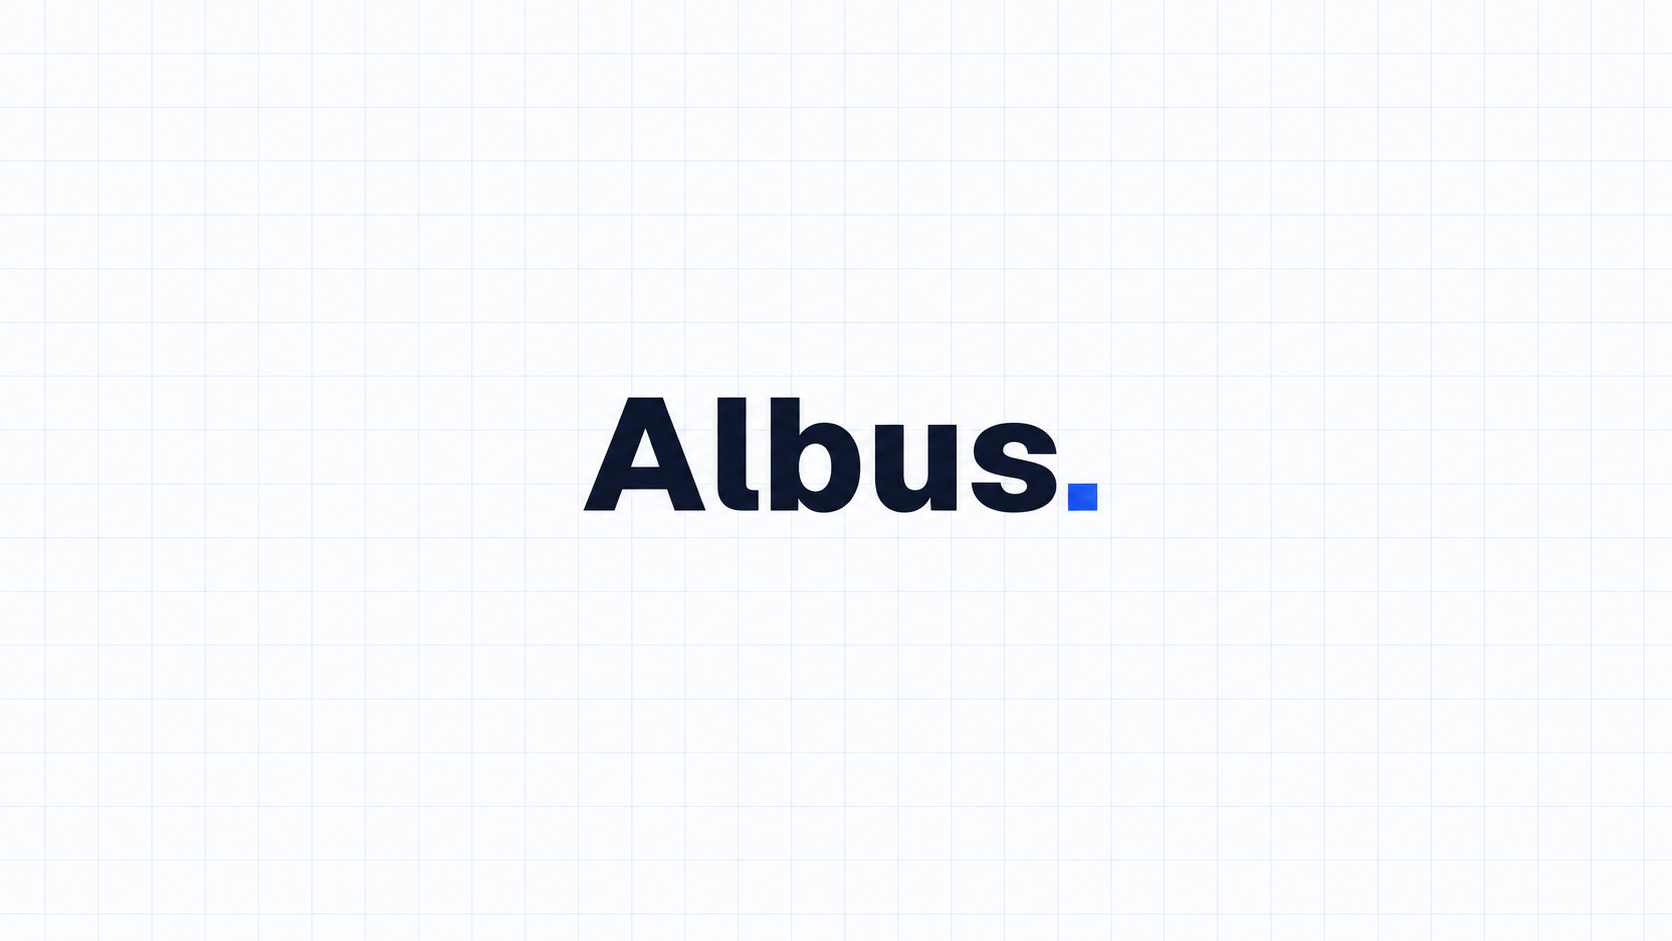
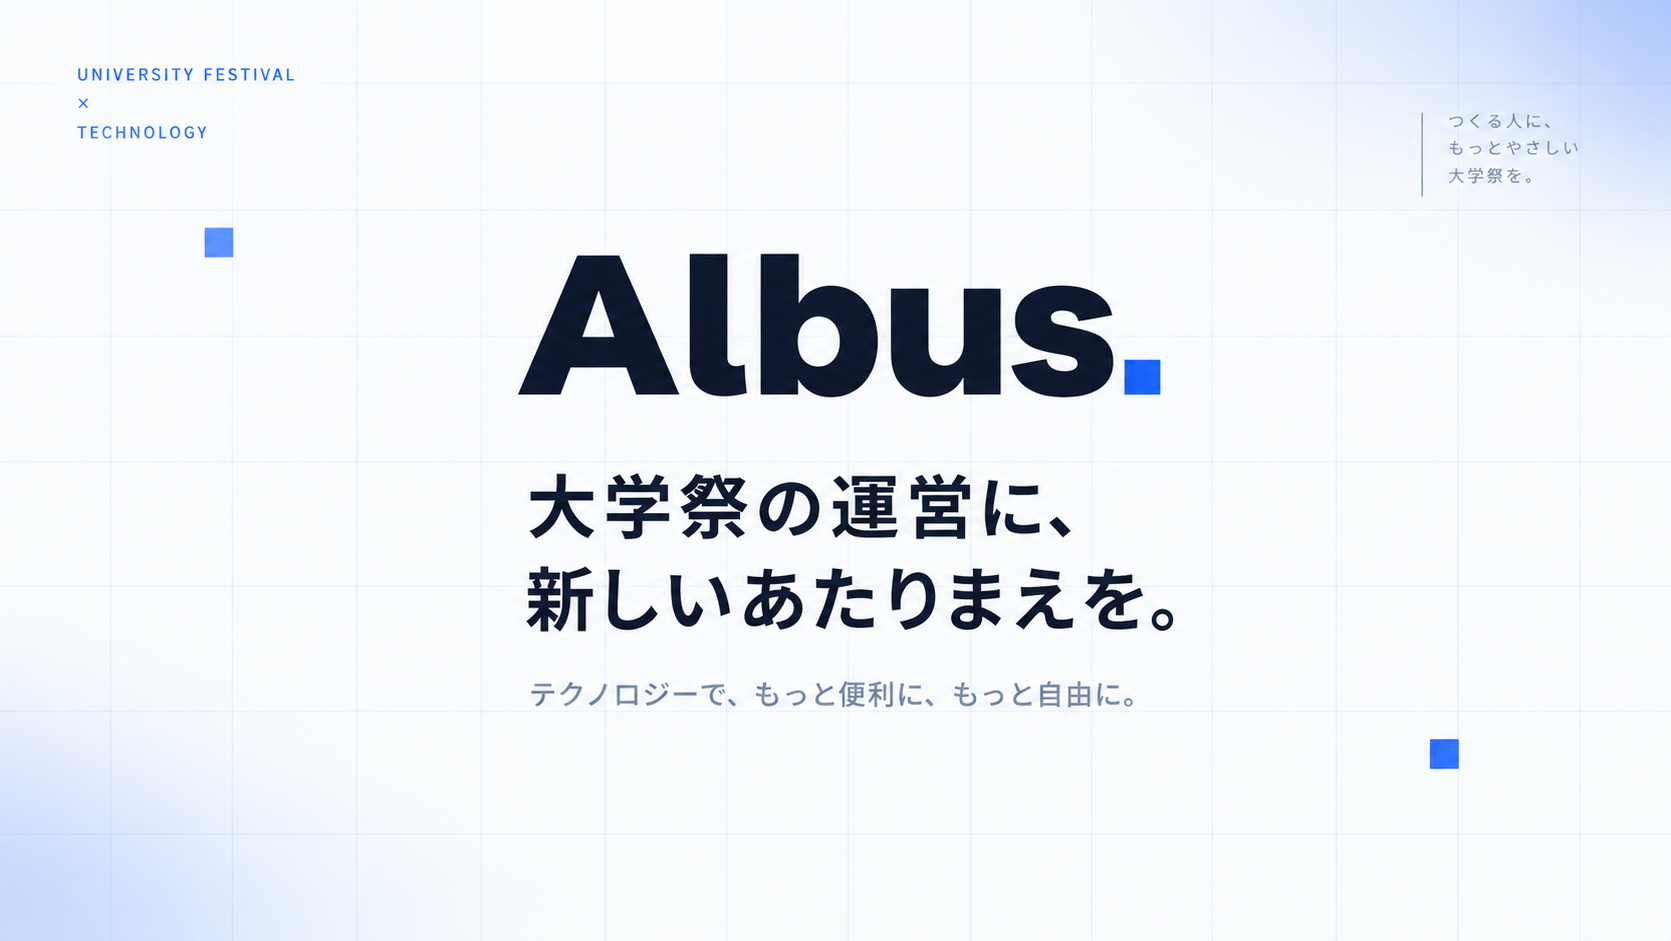
OGP画像を新しいキャッチコピー入りのものに差し替え

diff --git a/app/lib/site.ts b/app/lib/site.ts
@@ -13,7 +13,7 @@ export const DEFAULT_TITLE = `Albus.（アルバス）| ${SITE_SLOGAN}`;
 // SNS・検索結果で共有されるときの画像（public/Albus-OGP.png）
 export const OG_IMAGE = {
   url: '/Albus-OGP.png',
-  width: 1672,
+  width: 1671,
   height: 941,
   alt: `Albus. ${SITE_SLOGAN}`,
 };
